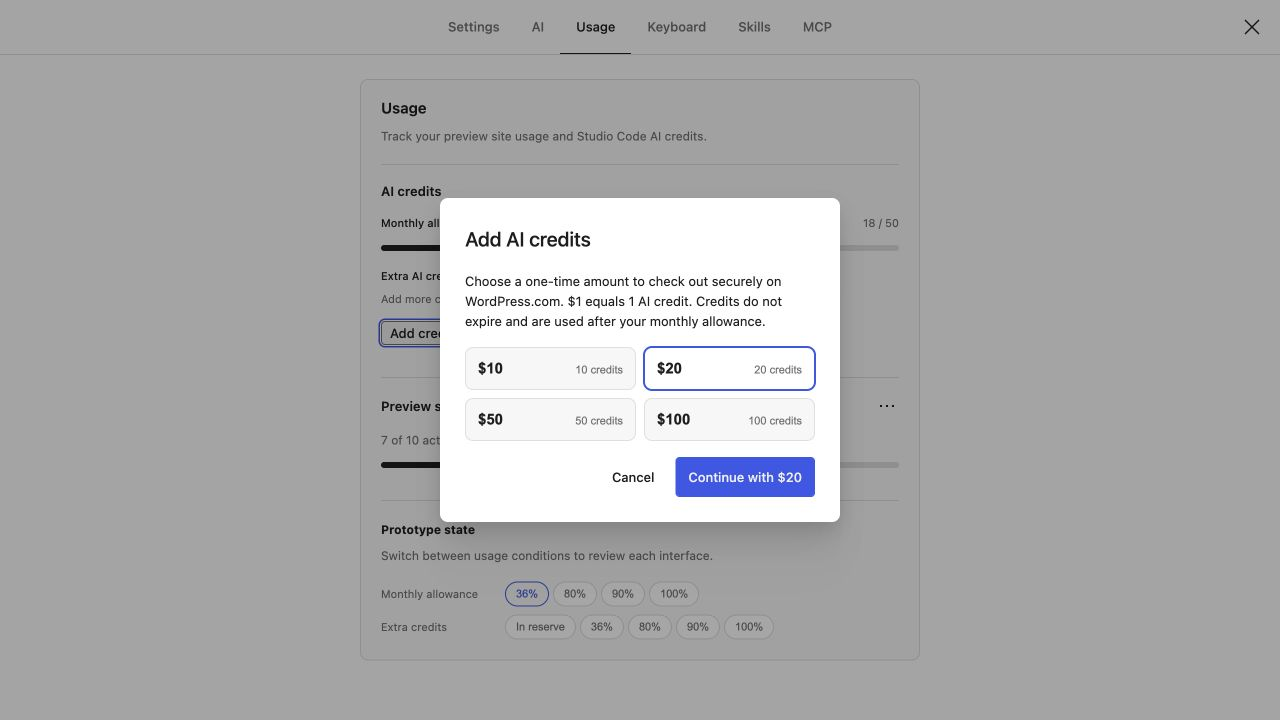
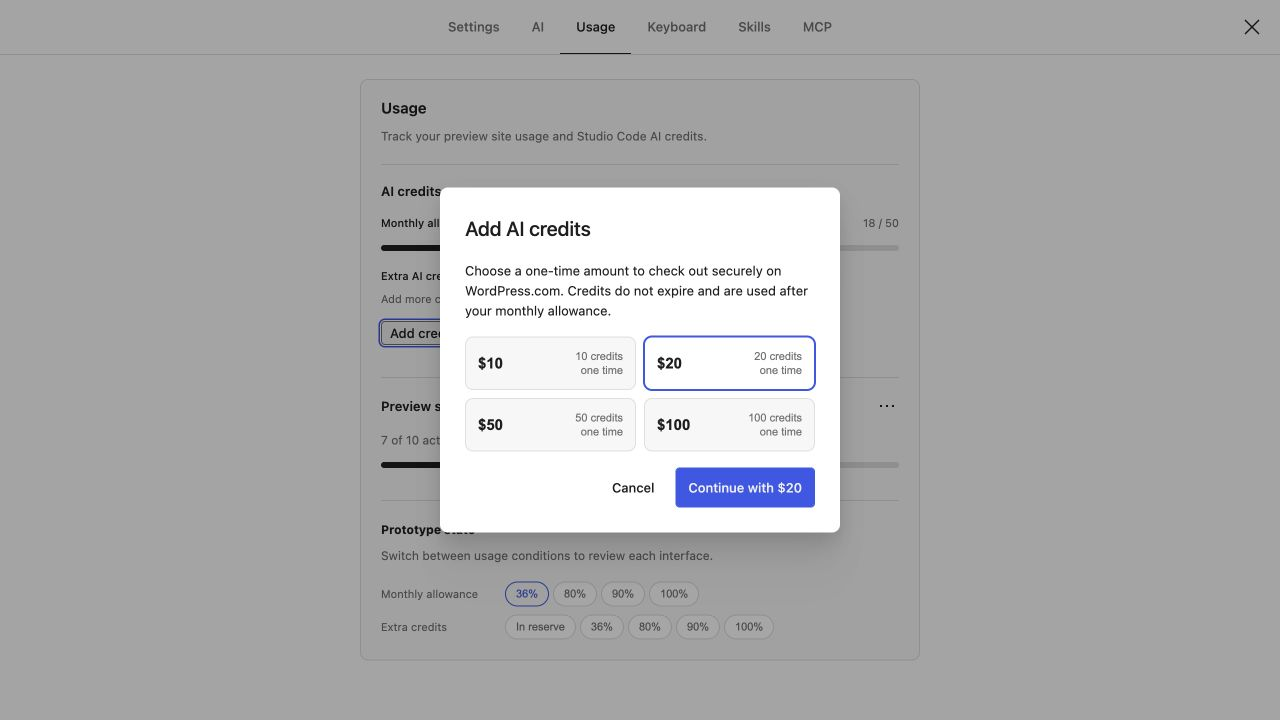
Refine one-time credit option labels

diff --git a/apps/ui/src/components/purchase-credits-dialog/index.tsx b/apps/ui/src/components/purchase-credits-dialog/index.tsx
@@ -44,7 +44,7 @@ export function PurchaseCreditsDialog( {
 					<Dialog.Content>
 						<Dialog.Description>
 							{ __(
-								'Choose a one-time amount to check out securely on WordPress.com. $1 equals 1 AI credit. Credits do not expire and are used after your monthly allowance.'
+								'Choose a one-time amount to check out securely on WordPress.com. Credits do not expire and are used after your monthly allowance.'
 							) }
 						</Dialog.Description>
 						<div
@@ -63,12 +63,15 @@ export function PurchaseCreditsDialog( {
 									onClick={ () => setAmount( option ) }
 								>
 									<span className={ styles.amountValue }>${ option }</span>
-									<span className={ styles.amountLabel }>
-										{ sprintf(
-											/* translators: %s: number of AI credits included. */
-											__( '%s credits' ),
-											String( option )
-										) }
+									<span className={ styles.amountDetails }>
+										<span className={ styles.amountLabel }>
+											{ sprintf(
+												/* translators: %s: number of AI credits included. */
+												__( '%s credits' ),
+												String( option )
+											) }
+										</span>
+										<span className={ styles.amountFrequency }>{ __( 'one time' ) }</span>
 									</span>
 								</button>
 							) ) }

diff --git a/apps/ui/src/components/purchase-credits-dialog/style.module.css b/apps/ui/src/components/purchase-credits-dialog/style.module.css
@@ -7,7 +7,7 @@
 
 .amount {
 	display: flex;
-	align-items: baseline;
+	align-items: center;
 	justify-content: space-between;
 	gap: var( --wpds-dimension-padding-sm );
 	padding: var( --wpds-dimension-padding-md );
@@ -45,7 +45,19 @@
 	font-weight: 600;
 }
 
-.amountLabel {
+.amountDetails {
+	display: flex;
+	align-items: flex-end;
+	flex-direction: column;
+	line-height: 1.25;
+}
+
+.amountLabel,
+.amountFrequency {
 	color: var( --wpds-color-fg-content-neutral-weak );
 	font-size: var( --wpds-typography-font-size-xs );
+}
+
+.amountFrequency {
+	font-size: 11px;
 }
